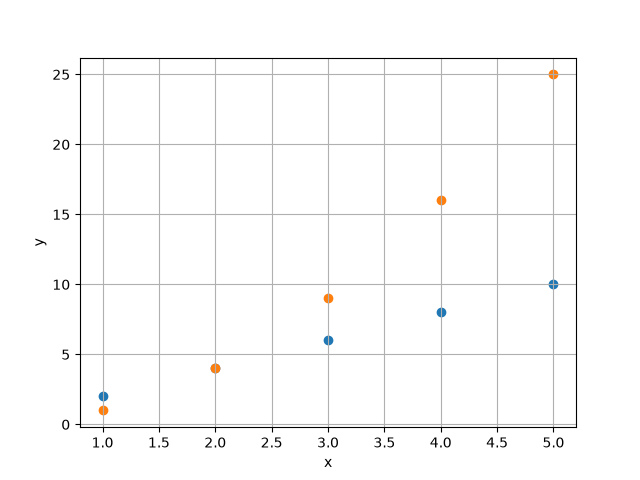
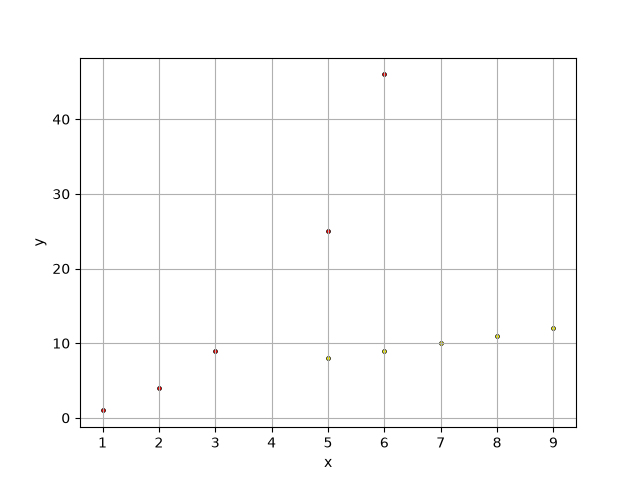
update

diff --git a/plot.py b/plot.py
@@ -5,11 +5,16 @@ def plot_datasets(datasets, indices):
         print("Нет наборов для отображения.")
         return
 
-    plt.figure()
-    for idx in indices:
-        ds = datasets[idx]
-        plt.scatter(ds['x'], ds['y'])
+    colors = ['yellow', 'red']  # цвета по порядку
 
+    plt.figure()
+    for i, idx in enumerate(indices):
+        ds = datasets[idx]
+        plt.scatter(ds['x'], ds['y'],
+                    s=8,                          
+                    color=colors[i % len(colors)],
+                    edgecolors='black',           
+                    linewidths=0.5)
 
     plt.xlabel('x')
     plt.ylabel('y')
